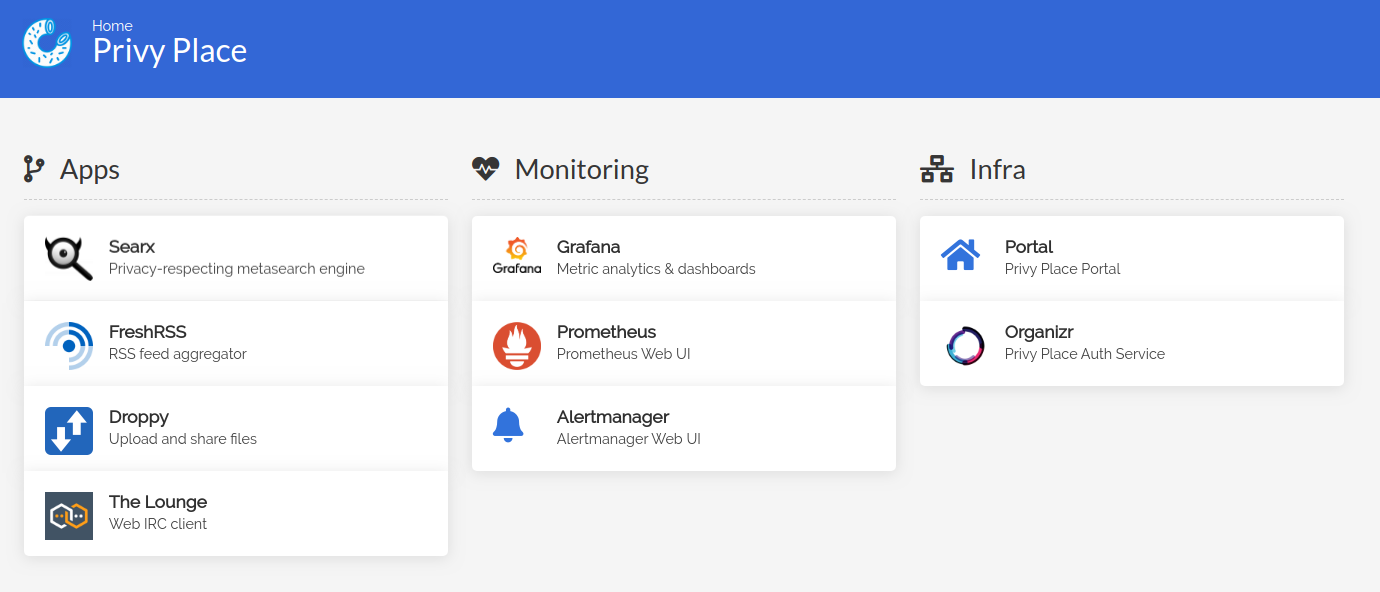
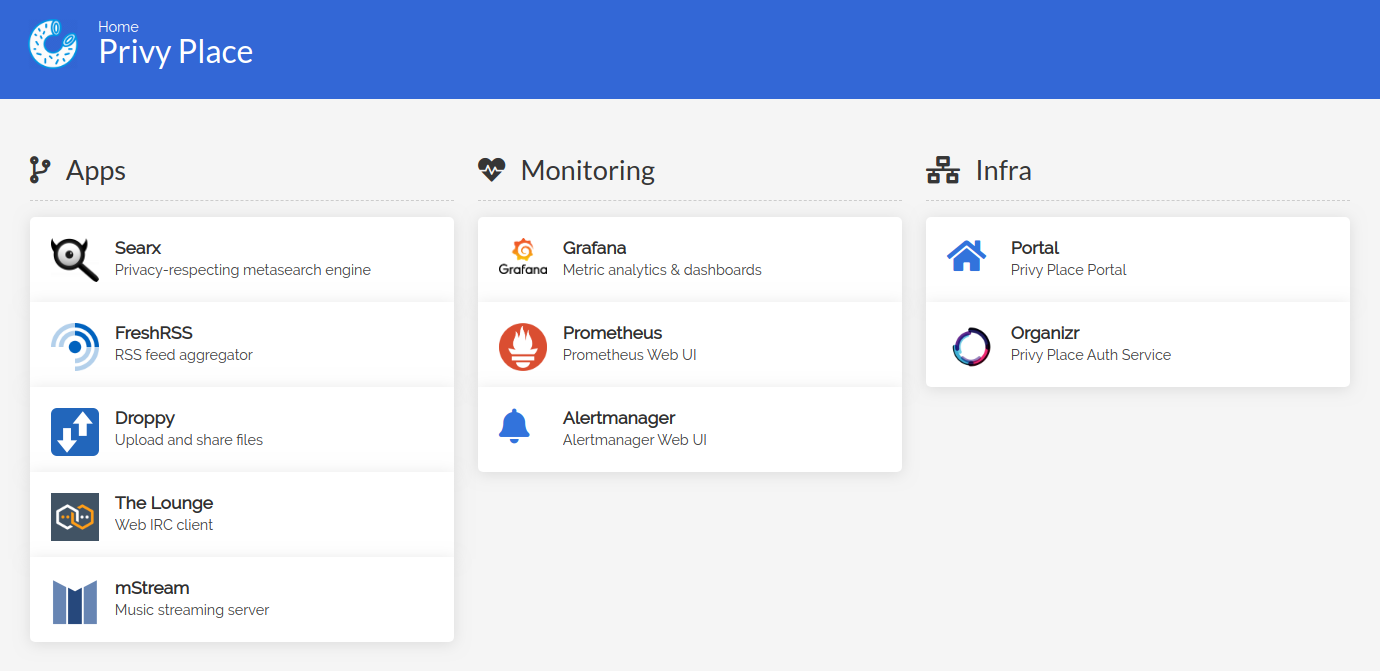
Add mStream app

diff --git a/README.md b/README.md
@@ -22,6 +22,7 @@ Additionnaly to the infrastucture, several apps are available to install on the 
 - [srt2hls](https://github.com/mbugeia/srt2hls) an audio HLS streaming server
 - [Droppy](https://github.com/silverwind/droppy) a file storage server with a web interface
 - [The Lounge](https://thelounge.chat/) a web IRC client
+- [mStream](https://mstream.io/) a music streaming server
 
 ![Alt text](doc/img/portal.png?raw=true "Privy Place Portal")
 
